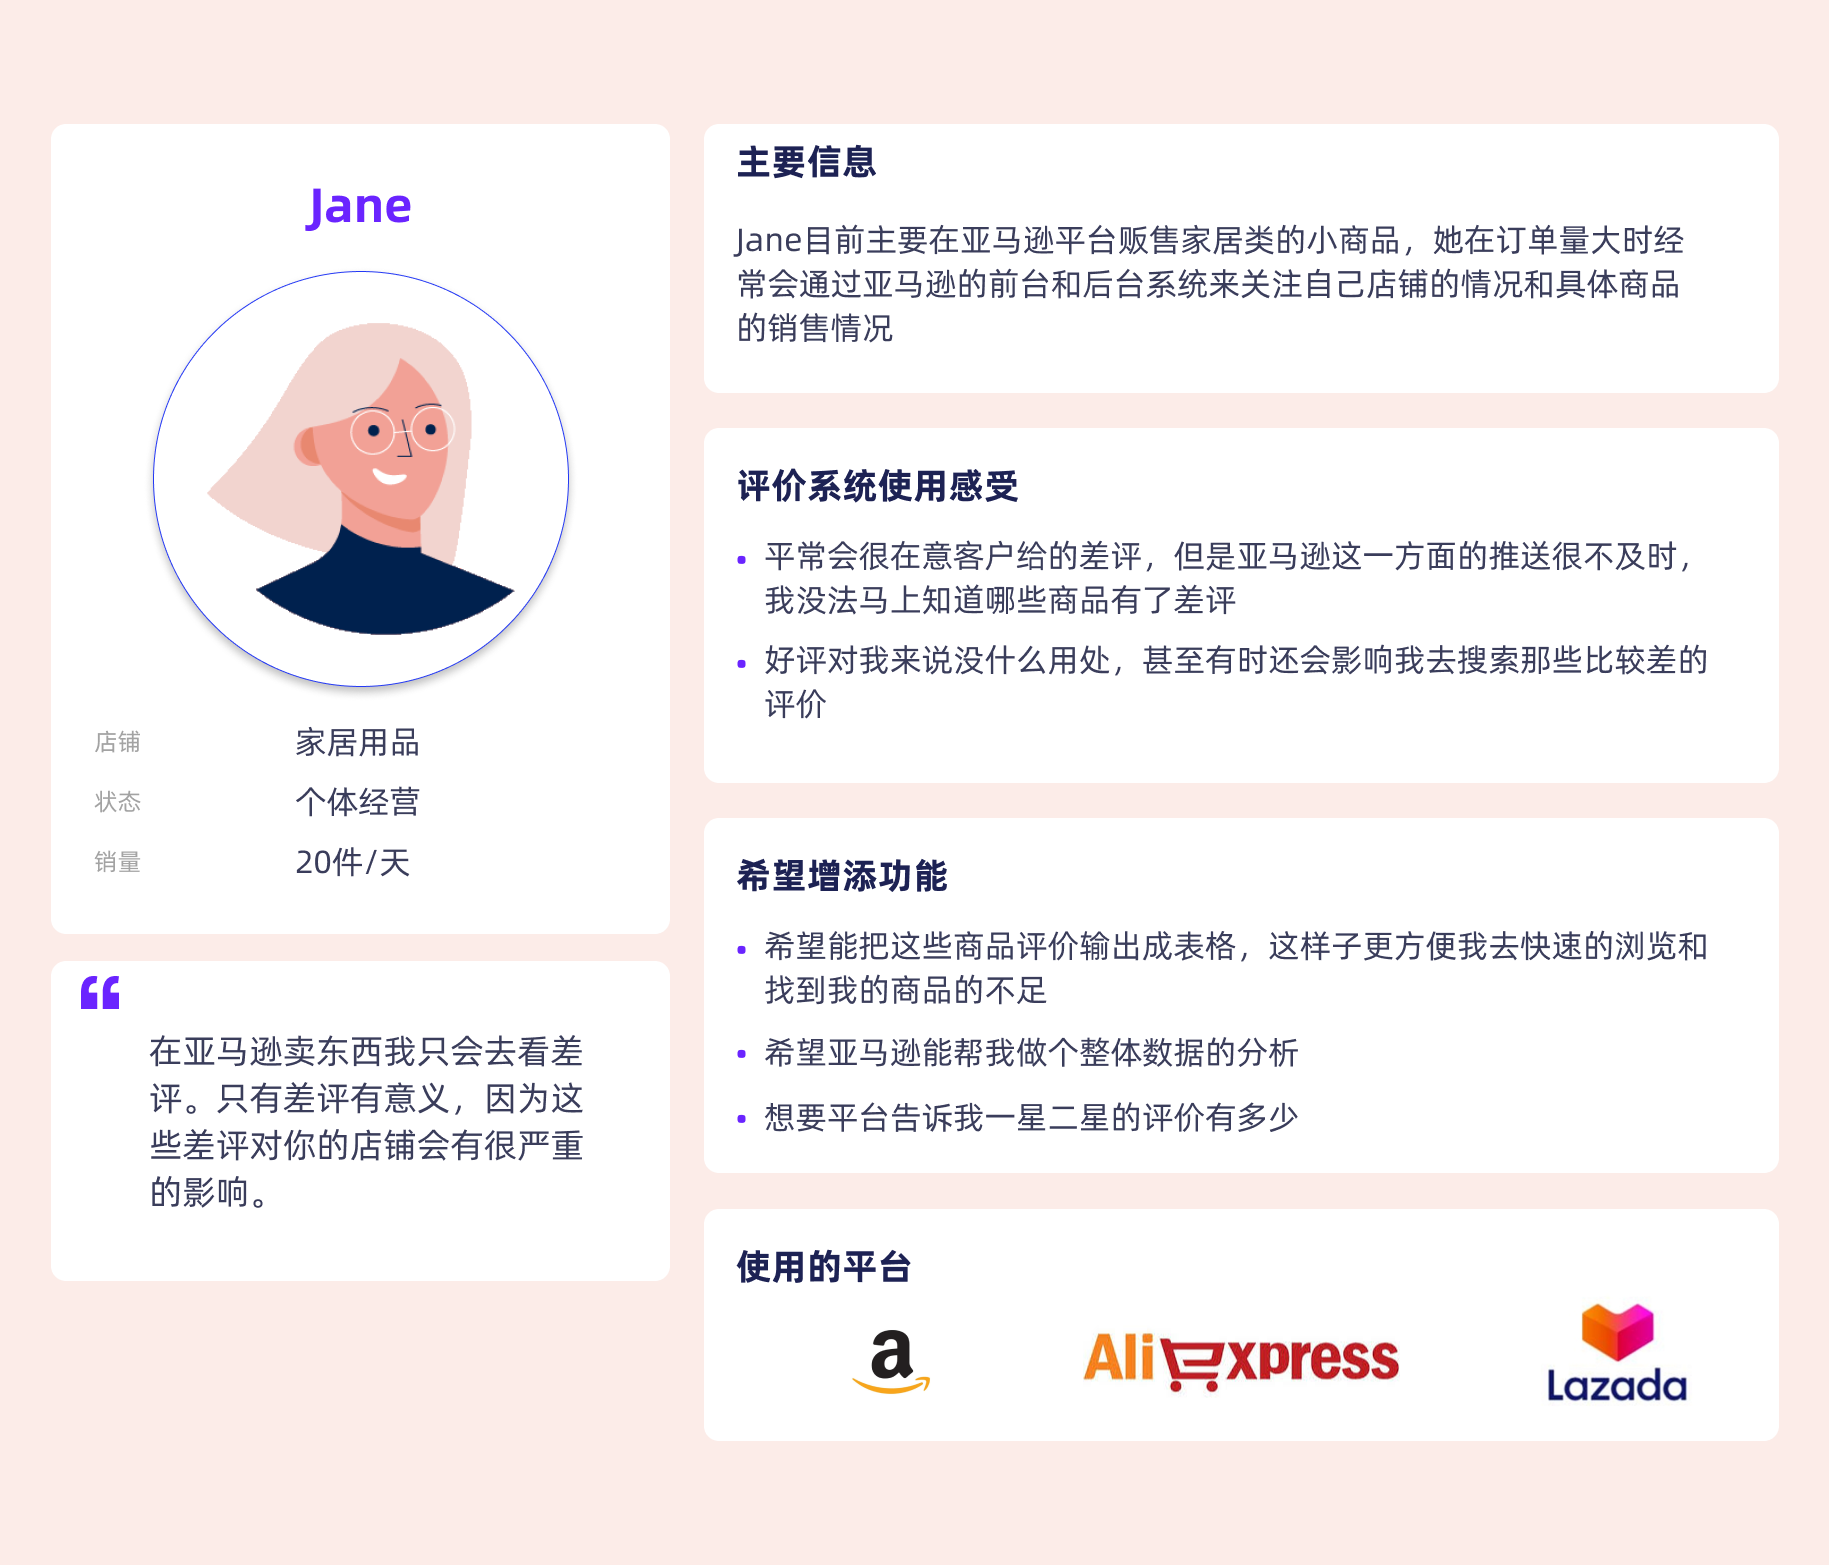
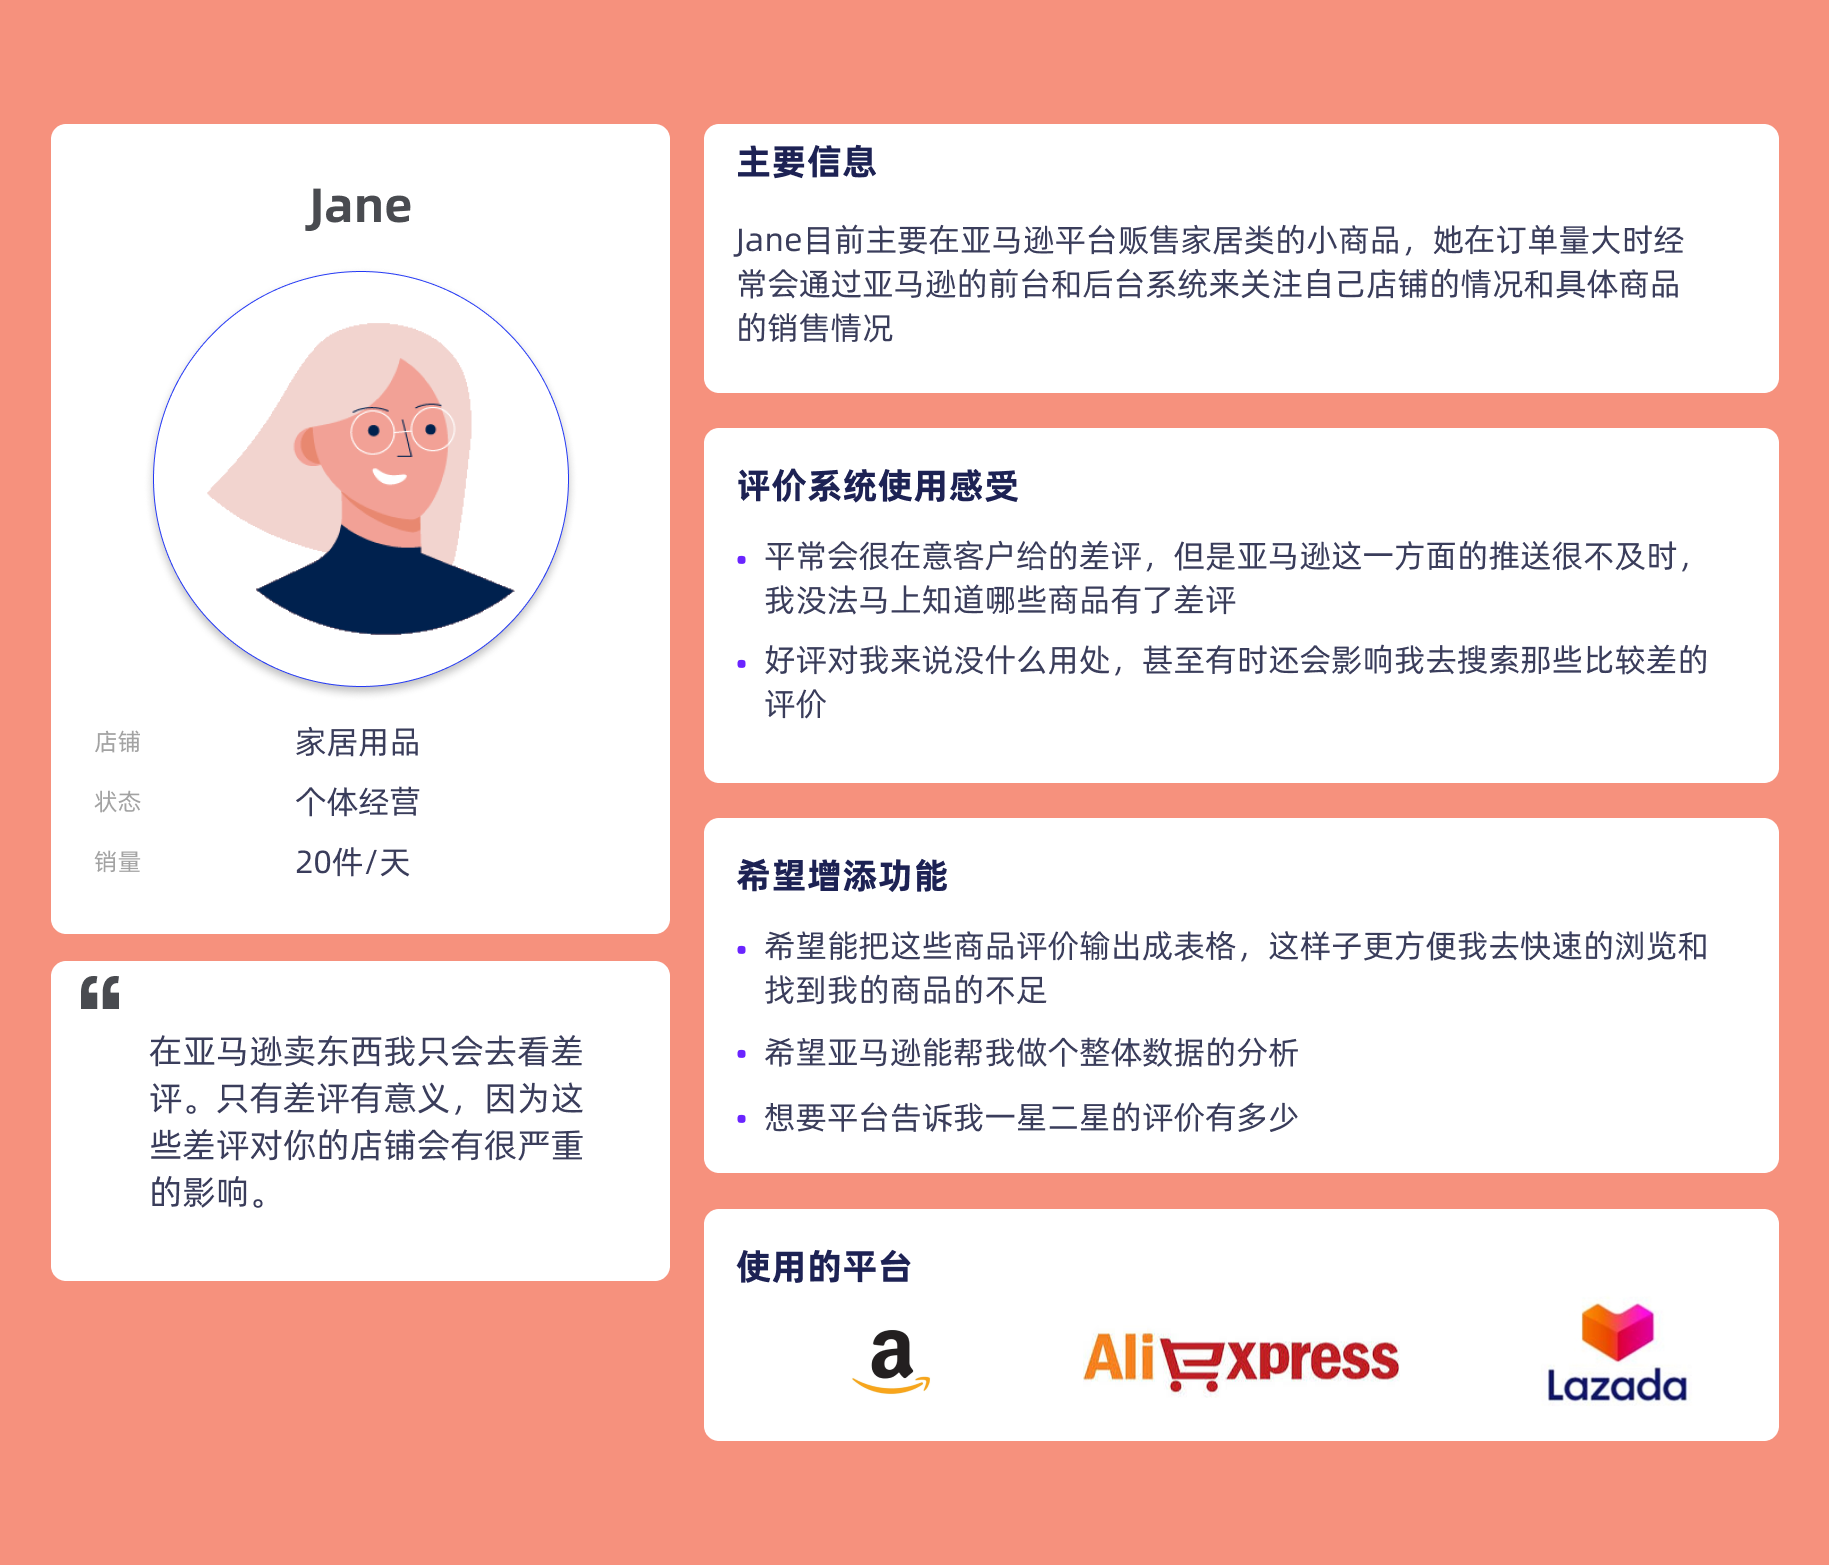
changed background color

diff --git a/assets/css/style.css b/assets/css/style.css
@@ -365,14 +365,23 @@ button:hover:after {
     width: 100%;
     height: 100vh;
     font-family: 'Poppins', 'Enriqueta', 'Kreon', 'Signika Negative';
+/*
     background: #BBD2C5;
-    /* fallback for old browsers */
     background: -webkit-linear-gradient(to right, #292E49, #536976, #BBD2C5);
-    /* Chrome 10-25, Safari 5.1-6 */
-    background: linear-gradient(to right, #292E49, #536976, #BBD2C5);
-    /* W3C, IE 10+/ Edge, Firefox 16+, Chrome 26+, Opera 12+, Safari 7+ */
+    background: linear-gradient(to right, #292E49, #536976, #BBD2C5);*/
+    
+    background: #2C3E50;  /* fallback for old browsers */
+    background: -webkit-linear-gradient(to right, #4CA1AF, #2C3E50);  /* Chrome 10-25, Safari 5.1-6 */
+    background: linear-gradient(to right, #4CA1AF, #2C3E50); /* W3C, IE 10+/ Edge, Firefox 16+, Chrome 26+, Opera 12+, Safari 7+ */
+    
+
+    
+    
     background-size: 200% 200%;
     animation: gradientBG 7s ease infinite;
+    
+
+
 }
 
 @keyframes gradientBG {
@@ -445,7 +454,7 @@ a,
 }
 
 .con p {
-    font-size: 20px;
+    /*font-size: 20px;*/
     text-transform: uppercase;
     letter-spacing: .5em;
     display: inline-block;
@@ -462,6 +471,7 @@ a,
     font: 700 4em/1 'Poppins','Enriqueta', sans-serif;
     letter-spacing: 0;
     padding: .25em 0 .325em;
+    color:  #ee5100;
     display: block;
     margin: 0 auto;
     text-shadow: 0 0 80px rgba(255, 255, 255, .5);
@@ -470,7 +480,7 @@ a,
     -webkit-background-clip: text;
     background-clip: text;
     /* Animate Background Image */
-    -webkit-text-fill-color: transparent;
+   /* -webkit-text-fill-color: transparent;*/
     -webkit-animation: aitf 80s linear infinite;
     /* Activate hardware acceleration for smoother animations */
     -webkit-transform: translate3d(0, 0, 0);
